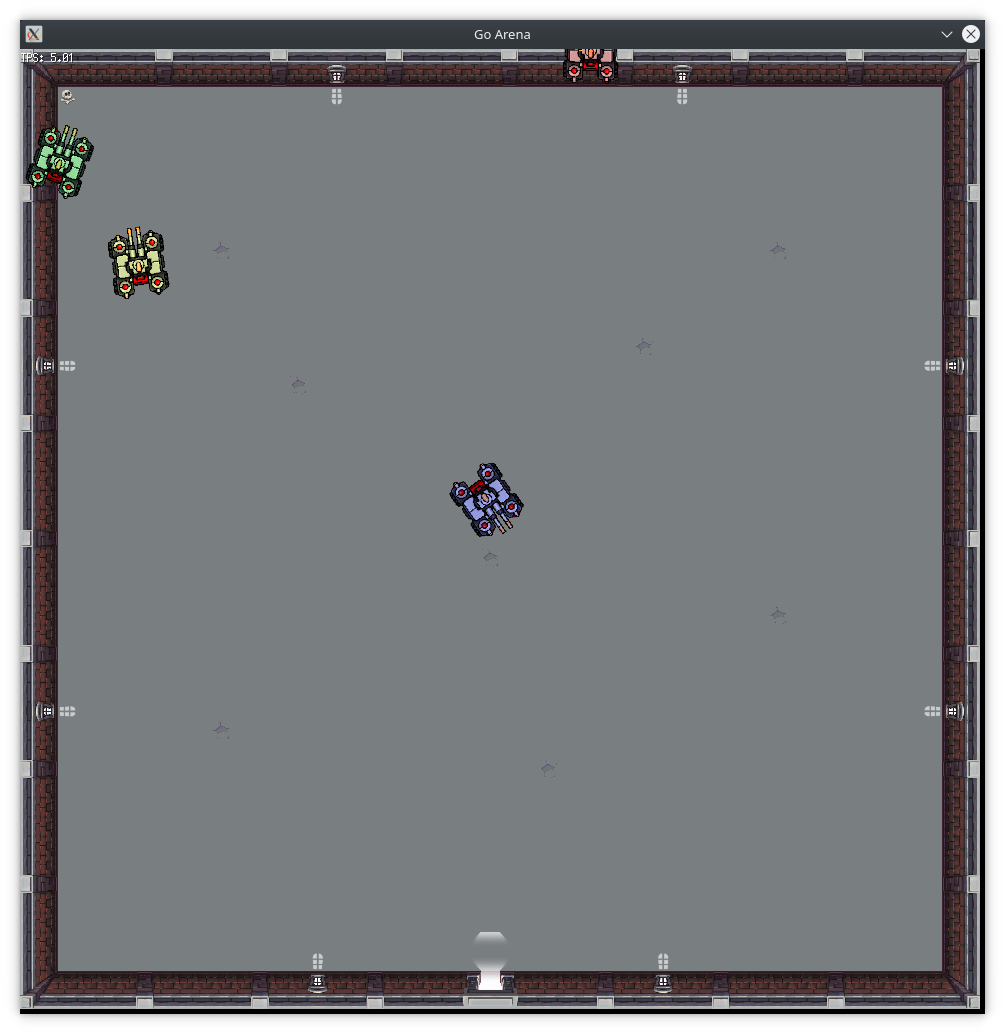
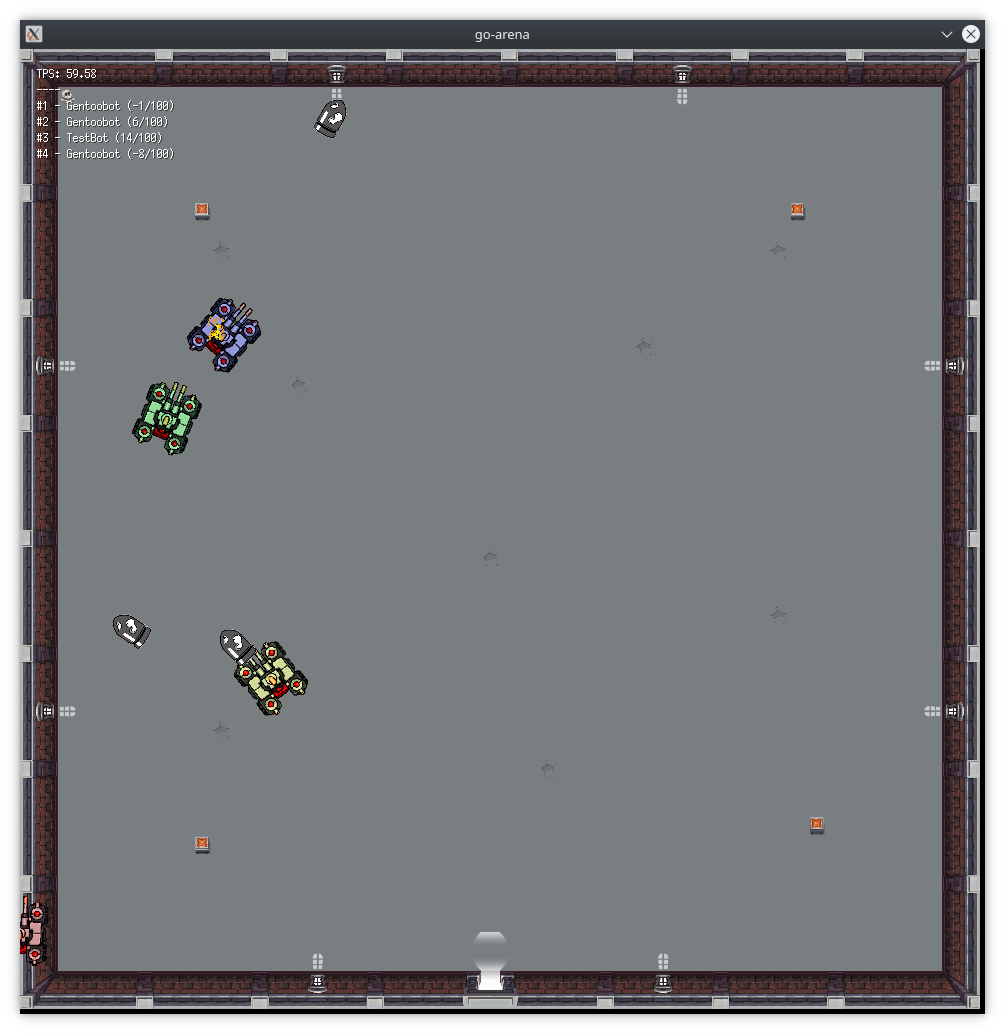
updated readme

diff --git a/README.md b/README.md
@@ -33,6 +33,9 @@ To compile run:
 
 ## State
 
-So for this project is very rudimental but making progress.
+- Bots can move and change orientation.
+- Bots have view range within which they can "see" enemies.
+- They can crash into the level boundary and notice it (and loose health:))
+- They notice when they get hit by flying shells.
 
-Bots can't do much more than driving around and crash into walls (and "die" by that.)
+There's a lot left to do but updates are coming constantly.
